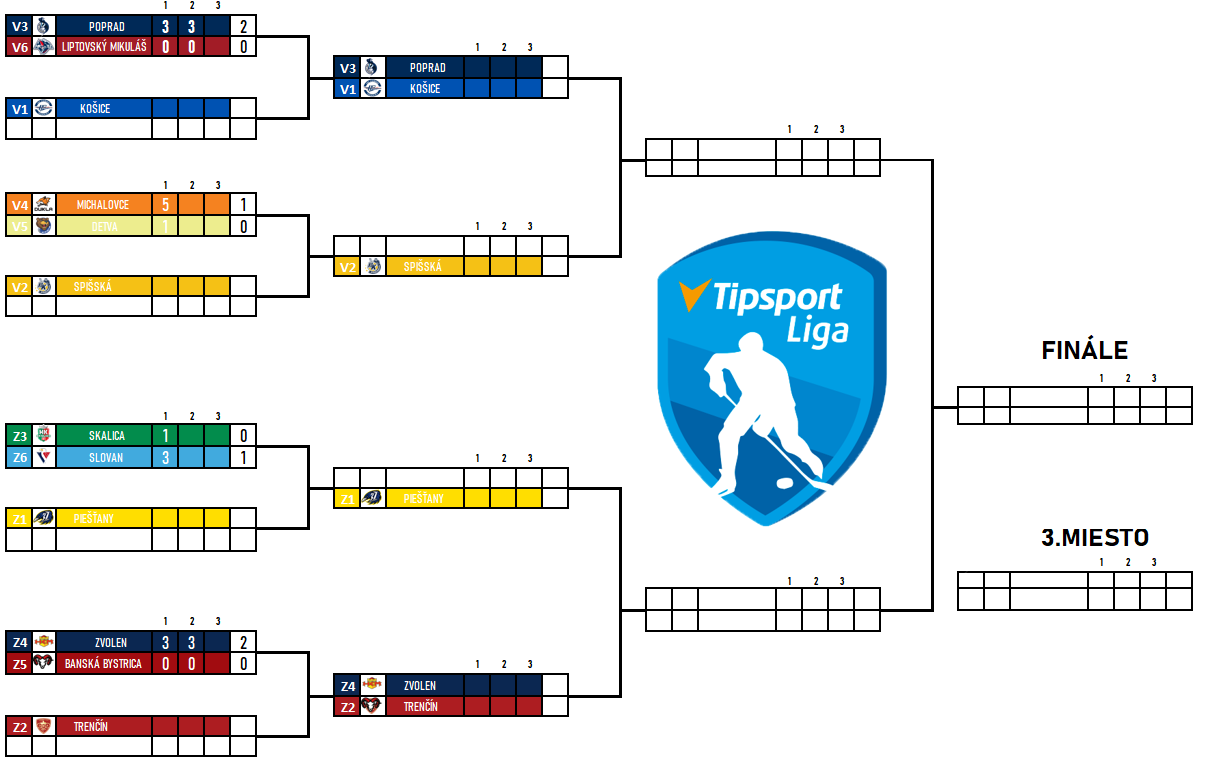
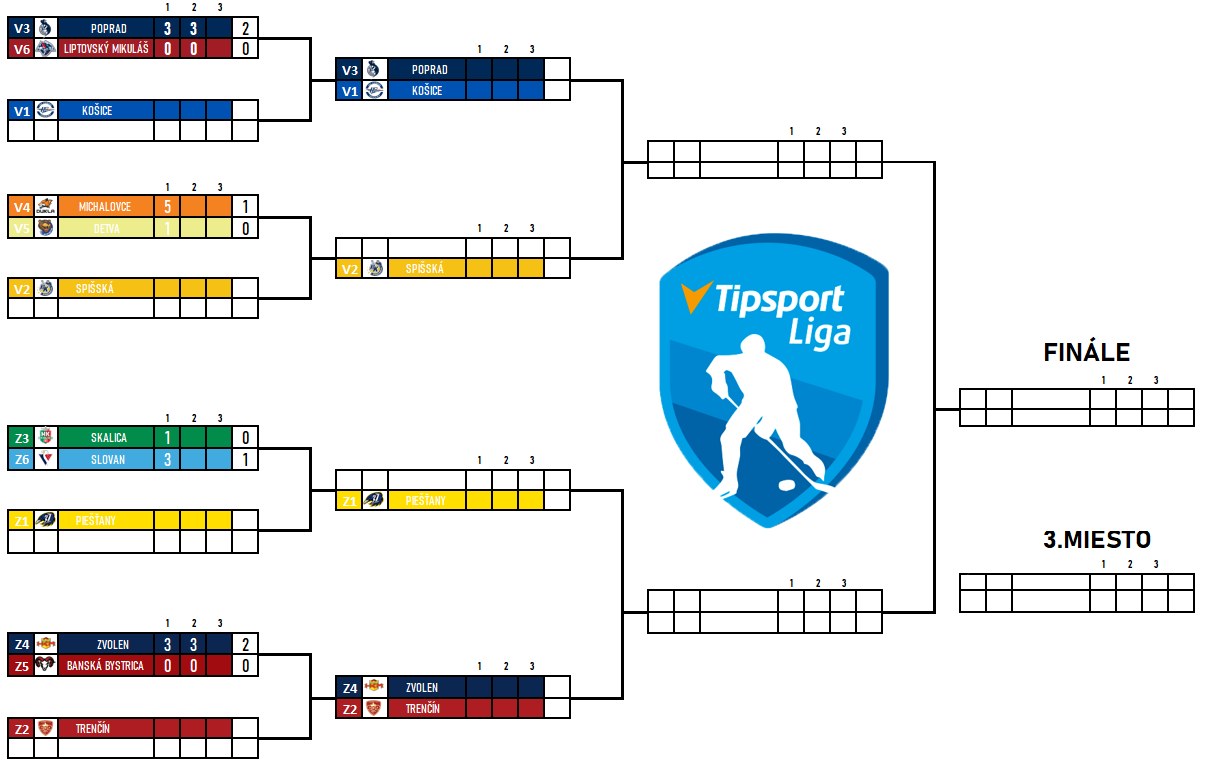
ss

diff --git a/play-off-rozpis.html b/play-off-rozpis.html
@@ -290,13 +290,13 @@
         <td class="logo"><img src="images/kosice.png" height="19"></td>
         <td class="club-name"><a href="https://www.hockeyarena.net/sk/index.php?p=public_team_info_basic.php&team_id=90119" style="text-decoration-style: none; color: black;">Košice</a></td>
         <td class="match"><b>:</b></td>
-        <td class="logo"></td>
-        <td class="club-name"></td>
+        <td class="logo"><img src="images/poprad.png" height="19"></td>
+        <td class="club-name"><a href="https://www.hockeyarena.net/sk/index.php?p=public_team_info_basic.php&team_id=7347" style="text-decoration-style: none; color: black;">Poprad</a></td>
       </tr>
        <tr>
         <td class="datum">2.zápas 12.7.2020</td>
-        <td class="logo"></td>
-        <td class="club-name"></td>
+        <td class="logo"><img src="images/poprad.png" height="19"></td>
+        <td class="club-name"><a href="https://www.hockeyarena.net/sk/index.php?p=public_team_info_basic.php&team_id=7347" style="text-decoration-style: none; color: black;">Poprad</a></td>
         <td class="match"><b>:</b></td>
         <td class="logo"><img src="images/kosice.png" height="19"></td>
         <td class="club-name"><a href="https://www.hockeyarena.net/sk/index.php?p=public_team_info_basic.php&team_id=90119" style="text-decoration-style: none; color: black;">Košice</a></td>
@@ -390,18 +390,18 @@
 
        <tr>
         <td class="datum">1.zápas 11.7.2020</td>
-        <td class="logo"><img src="images/trencin.png" height="19"></td>
+        <td class="logo"><img src="images/trencin.png" height="17"></td>
         <td class="club-name"><a href="https://www.hockeyarena.net/sk/index.php?p=public_team_info_basic.php&team_id=29244" style="text-decoration-style: none; color: black;">Trenčín</a></td>
         <td class="match"><b>:</b></td>
-        <td class="logo"></td>
-        <td class="club-name"></td>
+        <td class="logo"><img src="images/zvolen.png" height="22"></td>
+        <td class="club-name"><a href="https://www.hockeyarena.net/sk/index.php?p=public_team_info_basic.php&team_id=19732" style="text-decoration-style: none; color: black;">Zvolen</a></td>
       </tr>
        <tr>
         <td class="datum">2.zápas 12.7.2020</td>
-        <td class="logo"></td>
-        <td class="club-name"></td>
+        <td class="logo"><img src="images/zvolen.png" height="22"></td>
+        <td class="club-name"><a href="https://www.hockeyarena.net/sk/index.php?p=public_team_info_basic.php&team_id=19732" style="text-decoration-style: none; color: black;">Zvolen</a></td>
         <td class="match"><b>:</b></td>
-        <td class="logo"><img src="images/trencin.png" height="19"></td>
+        <td class="logo"><img src="images/trencin.png" height="17"></td>
         <td class="club-name"><a href="https://www.hockeyarena.net/sk/index.php?p=public_team_info_basic.php&team_id=29244" style="text-decoration-style: none; color: black;">Trenčín</a></td>
       </tr>
       <tr>
